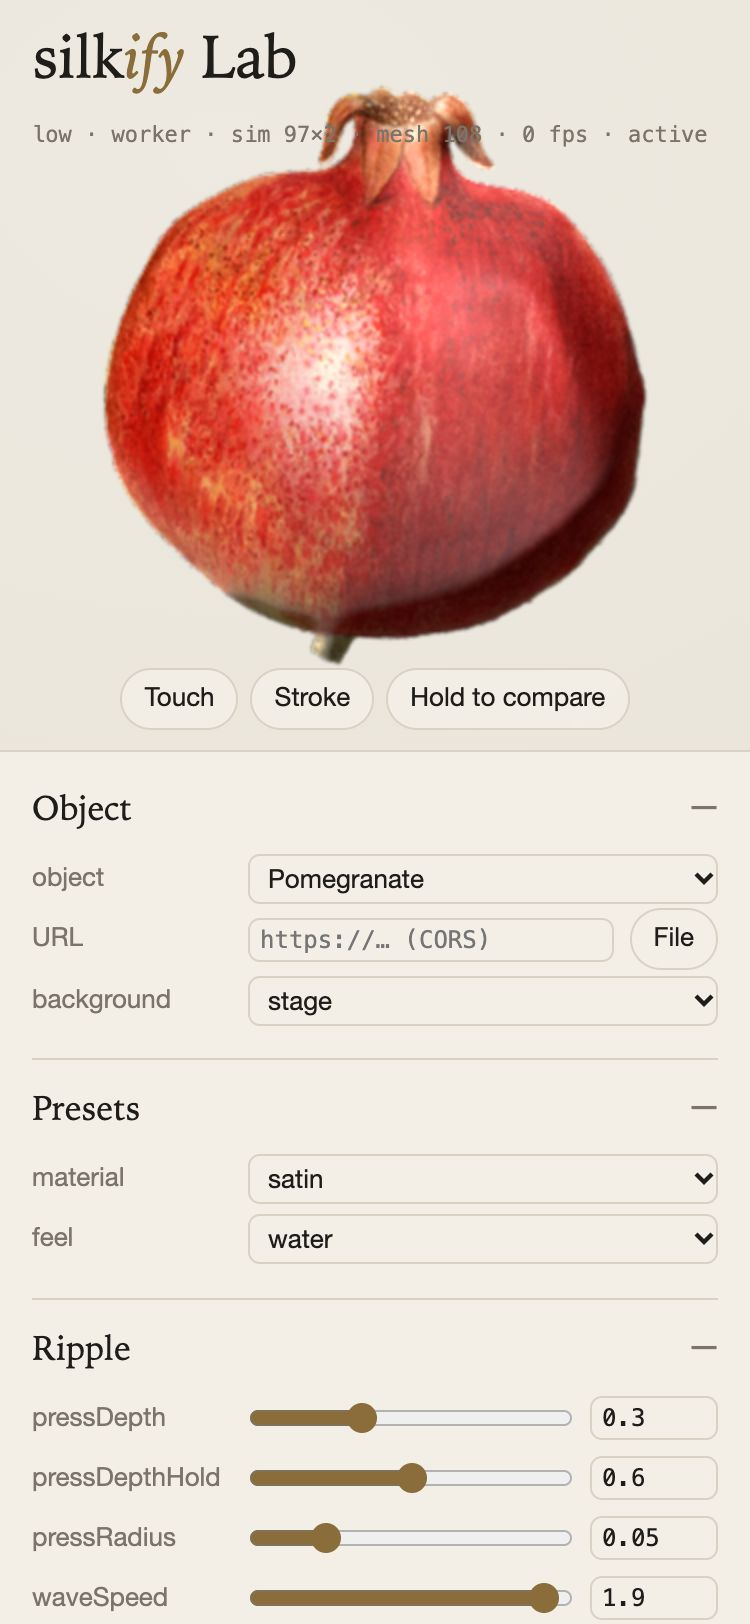
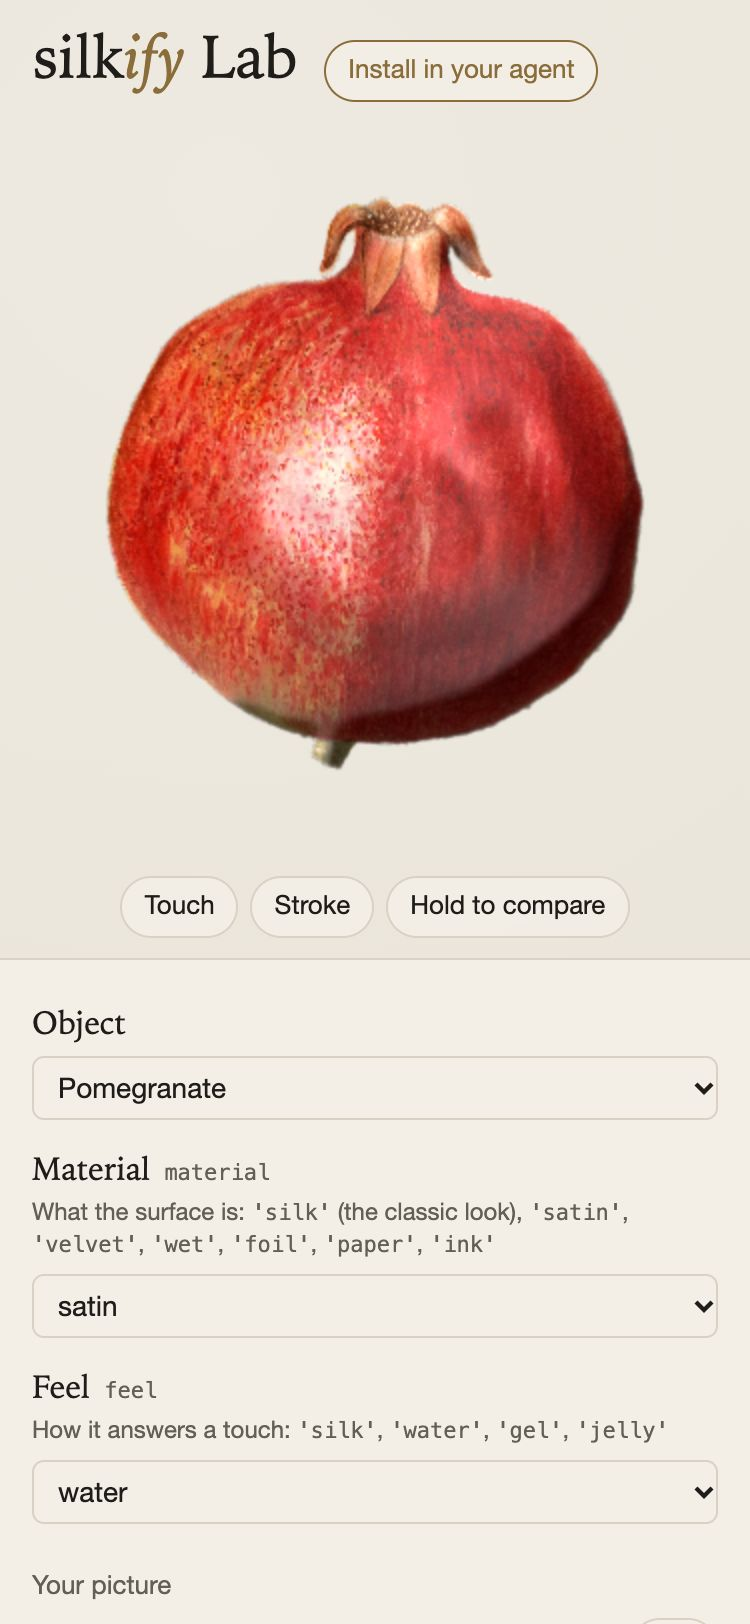
Lab: the look first, Advanced folded; no overlaps; readout behind ?debug
A first-time visitor met 38 sliders in six groups, with the presets as one
group among them. The panel now opens on object, material and feel (then
your own picture and the background, in quieter type); the six groups sit
inside one "Advanced" fold, closed by default and open when the link
already carries a value beyond the object's own options, so a shared look
shows what was tuned. Each group stays its own fold inside it.

- The readout (high · worker · sim · mesh · fps · loop) is developer
  information: it shows only with lab.html?debug. A still frame or a
  failure still prints its reason.
- The stage's hint and its Touch / Stroke / Compare buttons now share one
  flex row that wraps rather than overlaps (it also leaves room for the
  Record button of #15; the object list has room for the text object of
  #13).
- At 375 px the canvas gets its own box between the title and the button
  row, so the object no longer lies under the title or the readout.

Checked at 1280, 1180 and 375 px: axe-core reports no violations with the
fold closed or open, and no element overlaps the object or another. The
link round trip still restores 94 controls; shoot.mjs opens Advanced before
dragging the exposure slider.

Refs #5

diff --git a/examples/lab.html b/examples/lab.html
@@ -52,8 +52,13 @@
   #install { color: var(--accent); border-color: var(--accent); background: color-mix(in srgb, var(--paper) 78%, transparent); backdrop-filter: blur(6px); }
   .read { font: 11px/1.4 ui-monospace, "SF Mono", Menlo, Consolas, monospace; color: var(--muted); text-align: right; max-width: 46em; }
   .read.bad { color: var(--accent); }
-  .drop-hint { position: absolute; left: 22px; bottom: 16px; font-size: 12px; color: var(--muted); pointer-events: none; }
-  .acts { position: absolute; z-index: 1; right: 18px; bottom: 12px; display: flex; gap: 6px; flex-wrap: wrap; justify-content: flex-end; }
+  /* the stage's bottom row: the hint, then the buttons; when they do not fit side by side, the buttons wrap below */
+  .foot {
+    position: absolute; z-index: 1; left: 22px; right: 18px; bottom: 12px; pointer-events: none;
+    display: flex; flex-wrap: wrap; align-items: center; justify-content: space-between; gap: 8px 16px;
+  }
+  .drop-hint { font-size: 12px; color: var(--fine); }
+  .acts { display: flex; gap: 6px; flex-wrap: wrap; justify-content: flex-end; margin-left: auto; pointer-events: auto; }
   .acts button { background: color-mix(in srgb, var(--paper) 78%, transparent); backdrop-filter: blur(6px); }
   .acts button[aria-pressed="true"] { border-color: var(--accent); color: var(--accent); }
   .badge {
@@ -69,15 +74,24 @@
   .still button { margin-left: 6px; color: var(--accent); border-color: var(--accent); }
   aside { display: flex; flex-direction: column; min-height: 0; border-left: 1px solid var(--rule); background: var(--paper); }
   .controls { flex: 1; overflow-y: auto; padding: 8px 20px 24px; }
-  details { border-bottom: 1px solid var(--rule); }
+  /* the look (object, material, feel) on top, open; Advanced below it, and inside it one fold per group */
+  .look { padding: 10px 0 18px; }
+  .look .row:nth-child(-n+3) label { font: 400 16px/1.3 ui-serif, "Iowan Old Style", Georgia, serif; }
+  .look .row:nth-child(-n+3) select { padding: 6px 8px; font-size: 14px; }
+  .look > div:last-child { margin-top: 8px; }
+  .look > div:last-child .row label { font: inherit; color: var(--fine); }   /* your picture, background: quieter */
+  details { border-top: 1px solid var(--rule); }
   summary {
     cursor: pointer; padding: 14px 0 10px; list-style: none;
     font: 400 17px/1.2 ui-serif, "Iowan Old Style", Georgia, serif;
   }
+  summary span { margin-left: 10px; font: 12px ui-sans-serif, -apple-system, "Segoe UI", sans-serif; color: var(--fine); }
   summary::-webkit-details-marker { display: none; }
   summary::after { content: "+"; float: right; color: var(--muted); font-family: ui-sans-serif, sans-serif; }
-  details[open] summary::after { content: "–"; }
-  details > div { padding: 0 0 14px; }
+  details[open] > summary::after { content: "–"; }
+  details.group { margin-left: 2px; }
+  details.group > summary { padding: 12px 0 6px; font-size: 15px; }
+  details.group > div { padding: 0 0 12px; }
   /* a row: the option's name and its API name, one line on what it does, then the control */
   .row { display: grid; gap: 3px; padding: 7px 0; }
   .row label { color: var(--ink); }
@@ -121,13 +135,16 @@
   .credit a { color: inherit; }
   @media (max-width: 820px) {
     .lab { grid-template-columns: 1fr; height: auto; }
-    .stage { height: min(100vw, 72vh); }
     aside { border-left: 0; border-top: 1px solid var(--rule); }
     .controls { overflow: visible; padding: 4px 16px 16px; }
     .out { padding: 12px 16px 20px; }
     .top { padding: 14px 16px; }
     .drop-hint { display: none; }
-    .acts { left: 12px; right: 12px; bottom: 10px; justify-content: center; }
+    .foot { left: 12px; right: 12px; bottom: 10px; }
+    .acts { margin: 0 auto; justify-content: center; }
+    /* the object gets its own box between the title and the buttons, so neither lies on it */
+    .stage { height: calc(min(100vw, 72vh) + 104px); }
+    .stage canvas { top: 56px; height: calc(100% - 108px); }
   }
 </style>
 <script type="importmap">
@@ -139,16 +156,18 @@
   <section class="stage" id="stage">
     <div class="top">
       <div class="brand"><h1><a href="./">silk<em>ify</em></a> Lab</h1><button id="install" type="button" title="Copies one sentence: paste it into Claude Code, Codex, Cursor, Copilot or any agent that loads skills, and it installs silkify" data-install="Install the silkify agent skill: git clone --depth 1 --branch v0.3.0 https://github.com/RussGuo/silkify into a folder named silkify in the directory you load skills from (~/.claude/skills for Claude Code; ~/.agents/skills for Codex, Cursor, GitHub Copilot, Gemini CLI and most other agents), then read its SKILL.md and tell me whether silkify is ready.">Install in your agent</button></div>
-      <div class="read" id="read">loading…</div>
+      <div class="read" id="read" aria-live="polite">loading…</div>
     </div>
-    <span class="drop-hint">drop or paste an image or a URL · hold to press deeper · hold B to compare</span>
     <span class="badge" id="badge">defaults</span>
     <p class="still" id="still" hidden>Your system asks for reduced motion, so silkify draws one still frame, as it will on your
       own pages. <button id="play">Play anyway in the Lab</button></p>
-    <div class="acts">
-      <button id="touch" title="handle.ripple() in the middle of the object">Touch</button>
-      <button id="stroke" title="a line of handle.ripple() drops across the object">Stroke</button>
-      <button id="compare" title="hold (or hold the B key): the same object with silkify's defaults">Hold to compare</button>
+    <div class="foot">
+      <span class="drop-hint">drop or paste an image or a URL · hold to press deeper · hold B to compare</span>
+      <div class="acts">
+        <button id="touch" title="handle.ripple() in the middle of the object">Touch</button>
+        <button id="stroke" title="a line of handle.ripple() drops across the object">Stroke</button>
+        <button id="compare" title="hold (or hold the B key): the same object with silkify's defaults">Hold to compare</button>
+      </div>
     </div>
   </section>
   <aside>
@@ -173,6 +192,8 @@
    * uses; scripts/shoot.mjs drives this page through window.__lab (verify, and --lab for docs/shots/lab/).
    * Download HTML writes the same call into a page of its own, with the picture inside it (and silk.js from the CDN). When the system asks for
    * reduced motion, the stage says so and offers to play anyway, for this page only.
+   * The panel opens on the look (object, material, feel); every other option is under Advanced, each with a plain
+   * name and one line from references/parameters.md (lab-help.js). lab.html?debug shows the renderer's readout.
    */
   import { silkify, resolveOptions, PUFF } from '../src/silk.js';
   import { MATERIALS, FEELS, keysOf } from '../src/presets.js';
@@ -482,23 +503,26 @@
     w3.append(bg);
     const local = el('p', { className: 'note', textContent: 'A local picture is never uploaded, so it is not in the link: the link opens the pomegranate with these settings.' });
     const mark = el('p', { className: 'note', textContent: 'The ink drop is the FateTell mark, © FateTell: try things with it here, but put your own picture in a page you publish.' });
-    box.append(r1, r2, r3, local, mark);
+    box.append(r2, r3, local, mark);
     views.push({ key: 'object', row: r1, show() {
       s.value = state.obj; url.value = state.url || ''; bg.value = state.bg; stage.dataset.bg = state.bg;
       local.hidden = !isLocal();
       mark.hidden = state.obj !== 'ink-drop';
     } });
-    return box;
+    return [r1, box];
   }
 
+  /* The look first: object, material, feel (then your own picture and the background), always open. Every other option
+   * is under Advanced, closed unless the link already carries a value beyond the object's own options. Room is left
+   * on purpose: a text object joins the object list (#13), a Record button the stage's button row (#15). */
+  const tuned = () => { const base = fresh(state.obj).set; return Object.keys({ ...base, ...state.set }).some((k) => !same(state.set[k], base[k])); };
   function build() {
-    const section = (title, body, open = true) => {
-      const d = el('details', { open });
-      d.append(el('summary', { textContent: title }), body);
-      root.append(d);
-    };
-    section('Object', object());
-    section('Presets', presets());
+    const [pick, more] = object();
+    root.append(el('section', { className: 'look', ariaLabel: 'Look' }, pick, presets(), more));
+    const advanced = el('details', { className: 'advanced', open: tuned() },
+      el('summary', {}, 'Advanced', el('span', { textContent: 'every option, for fine-tuning' })));
+    root.append(advanced);
+    const section = (title, body, open) => advanced.append(el('details', { className: 'group', open }, el('summary', { textContent: title }), body));
     for (const [title, params] of GROUPS) {
       const body = el('div');
       for (const [key, kind, ...a] of params) {
@@ -700,6 +724,7 @@ ${bump ? `  const BUMP = '${bump}';\n` : ''}  window.silk = silkify(document.get
 
   /* ---- readouts: what the renderer chose, and frames it actually drew (handle.stats(), once a second) ---- */
   const read = document.getElementById('read');
+  const DEBUG = qs.has('debug');                        // lab.html?debug: what the renderer chose and the frames it draws
   setInterval(async () => {
     if (!handle) return;
     const h = handle, s = await h.stats(), now = performance.now();
@@ -707,8 +732,7 @@ ${bump ? `  const BUMP = '${bump}';\n` : ''}  window.silk = silkify(document.get
     const fps = lastFrames ? ((s.frames - lastFrames.frames) * 1000) / (now - lastFrames.at) : 0;
     lastFrames = { frames: s.frames, at: now };
     const i = h.info || {};
-    read.textContent = h.mode === 'webgl'
-      ? `${h.tier} · ${h.thread} · sim ${i.sim}×${i.steps} · mesh ${i.mesh} · ${fps.toFixed(0)} fps · ${s.mode}`
+    read.textContent = h.mode === 'webgl' ? !DEBUG ? '' : `${h.tier} · ${h.thread} · sim ${i.sim}×${i.steps} · mesh ${i.mesh} · ${fps.toFixed(0)} fps · ${s.mode}`
       : h.reason ? `${h.mode}: ${h.reason}` : h.mode;
     read.classList.toggle('bad', h.mode === 'failed');
   }, 1000);

diff --git a/CHANGELOG.md b/CHANGELOG.md
@@ -18,6 +18,7 @@
 - **Who made it, wherever it travels.** A line under both README titles, the gallery's footer and the Lab now say "Made by Russ Guo" with a link; a file downloaded from the Lab carries the same credit in a comment and a small "silkify" link in its corner. The name and links live in one place, `scripts/build-integrations.mjs`, which writes them into every page and fails `--check` when one drifts.
 - **The READMEs lead with what silkify is and how to try it:** install, the 30-second start (now with the React component), materials and feels, the gallery, live HTML, then browsers and fallbacks in three bullets (where "What it is not" went). Material moved, none removed: How it works and the performance overview are in `references/how-it-works.md` (and `.zh-CN.md`), the Lighthouse history in `references/performance.md`, the repository layout and the rules for a change in `CONTRIBUTING.md` (and `.zh-CN.md`); the option table and the live-HTML details are folded under the sections they belong to.
 - **Every control in the Lab says what it does.** Each row shows a plain name with the API name beside it ("Press depth · `pressDepth`") and, under it, one line from `references/parameters.md` (generated into `examples/lab-help.js` by `build-integrations.mjs`, so the two never disagree), readable on touch screens. Every input now has an accessible name: the label is tied to the row's main control and describes it, the number boxes and the other inputs have their own; an axe-core audit of the Lab reports no unlabelled form controls and no contrast failures at 1280 and 375 px. `references/parameters.md` gained the missing line for `bumpStrength`.
+- **The Lab opens on the look.** Object, material and feel sit at the top of the panel, with your own picture and the background just below; every other option is under **Advanced**, closed unless the link already carries values beyond the object's own. The renderer's readout (tier, thread, grid, fps, loop state) shows only with `lab.html?debug`; a still frame or a failure still says why. The stage's hint and its buttons share one row that wraps instead of overlapping, and at 375 px the object has its own box between the title and the buttons.
 
 Pictures look the same: the posters re-render byte for byte.
 
